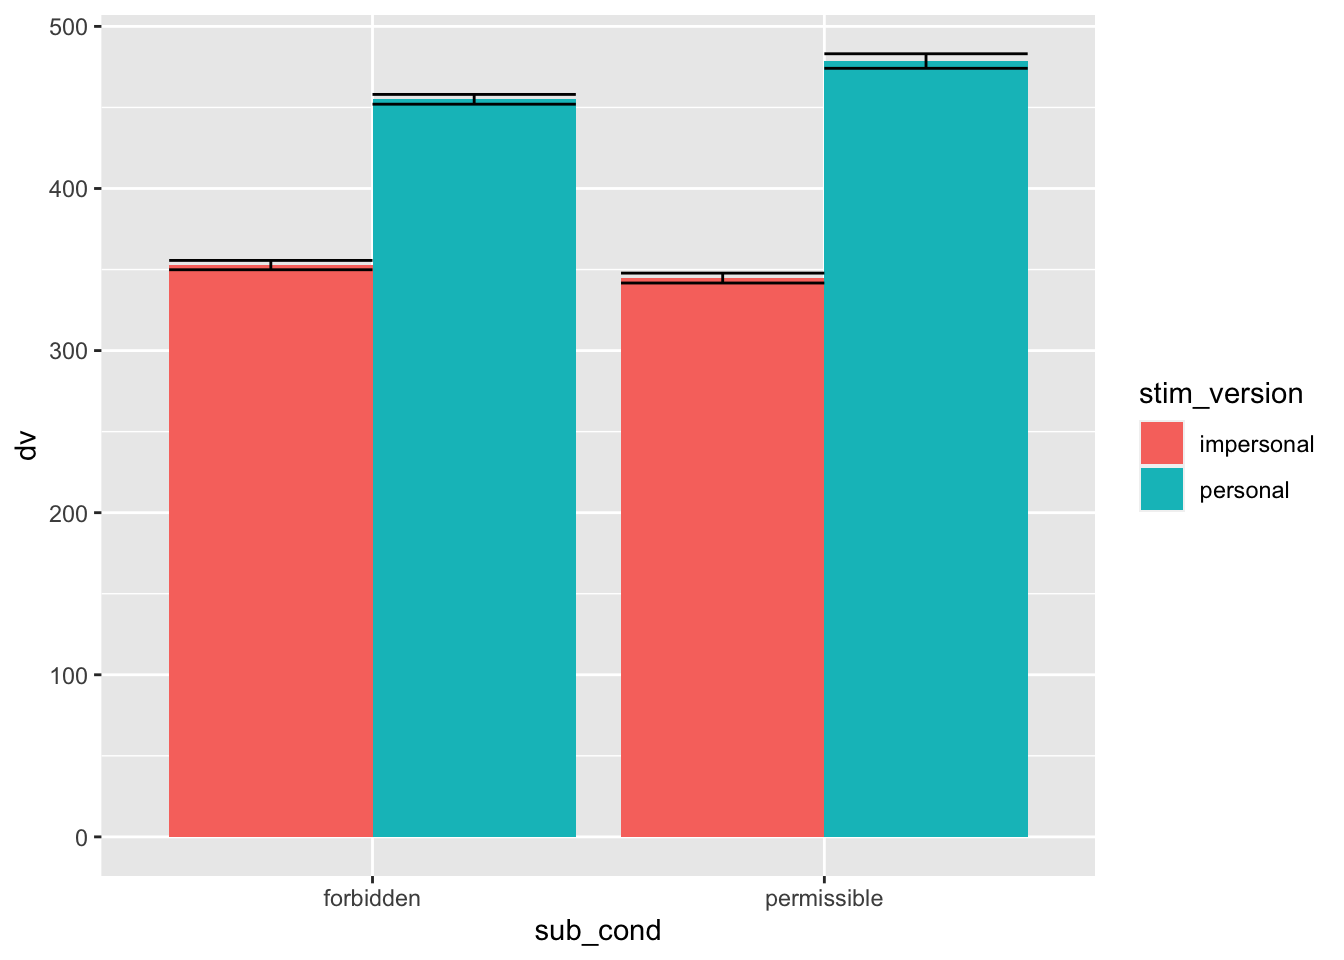
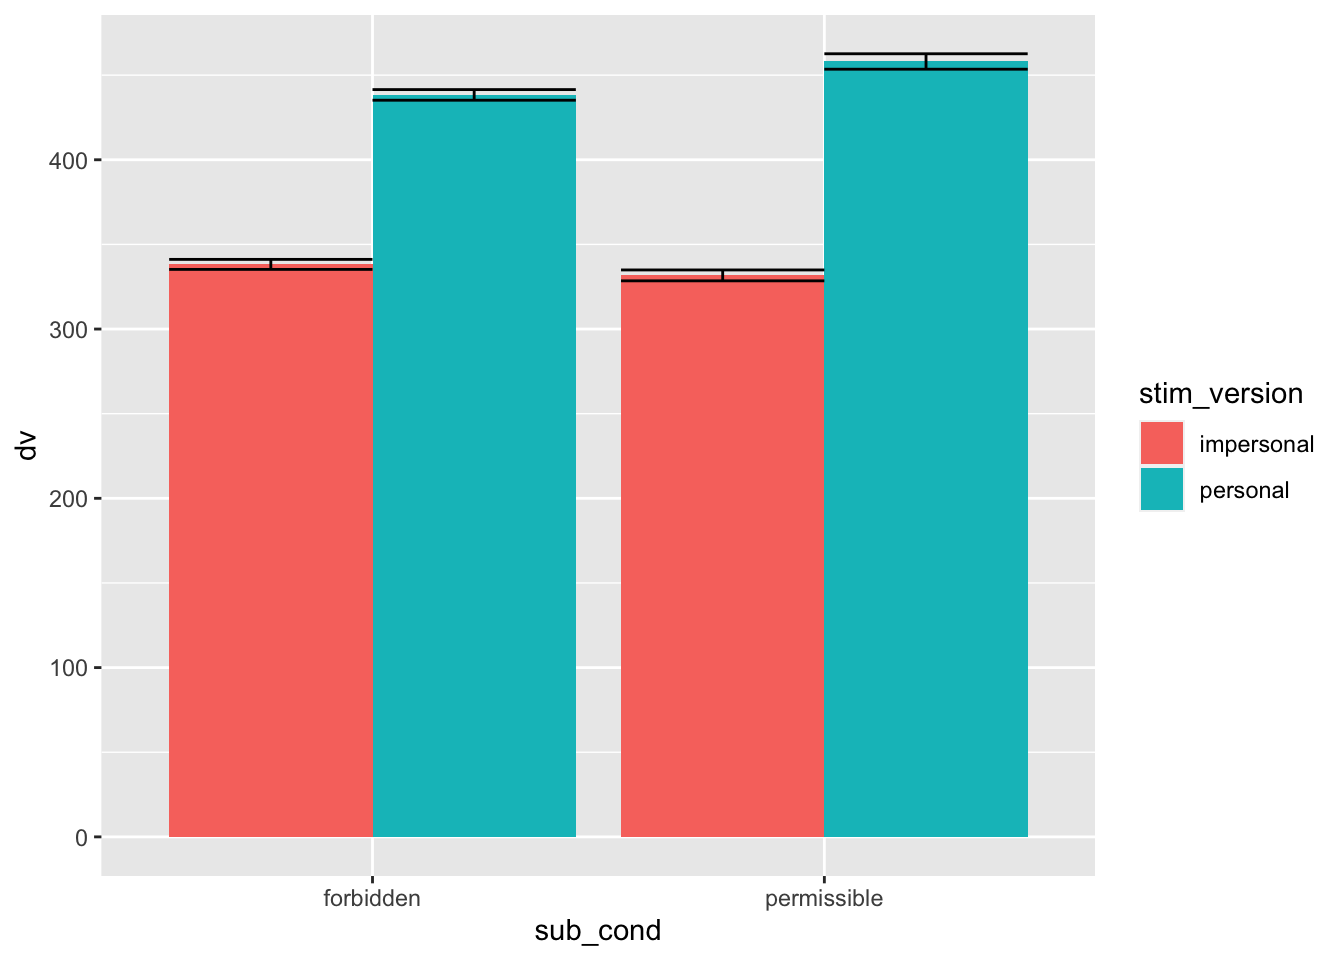
Update

diff --git a/Mixed-effects-models.html b/Mixed-effects-models.html
@@ -522,16 +522,16 @@ sim_lmer &lt;- function( sub_n = 200,
 <pre style="max-height: 500px;"><code>## # A tibble: 20,000 × 17
 ##    sub_id stim_id stim_version sub_i sub_version_slope sub_cond    stim_i
 ##     &lt;int&gt;   &lt;int&gt; &lt;chr&gt;        &lt;dbl&gt;             &lt;dbl&gt; &lt;chr&gt;        &lt;dbl&gt;
-##  1      1       1 impersonal    16.5             -24.4 permissible  -6.66
-##  2      1       1 personal      16.5             -24.4 permissible  -6.66
-##  3      1       2 impersonal    16.5             -24.4 permissible -75.8 
-##  4      1       2 personal      16.5             -24.4 permissible -75.8 
-##  5      1       3 impersonal    16.5             -24.4 permissible -25.9 
-##  6      1       3 personal      16.5             -24.4 permissible -25.9 
-##  7      1       4 impersonal    16.5             -24.4 permissible  75.6 
-##  8      1       4 personal      16.5             -24.4 permissible  75.6 
-##  9      1       5 impersonal    16.5             -24.4 permissible   9.91
-## 10      1       5 personal      16.5             -24.4 permissible   9.91
+##  1      1       1 impersonal   -151.              28.6 permissible  -87.9
+##  2      1       1 personal     -151.              28.6 permissible  -87.9
+##  3      1       2 impersonal   -151.              28.6 permissible  -45.4
+##  4      1       2 personal     -151.              28.6 permissible  -45.4
+##  5      1       3 impersonal   -151.              28.6 permissible   37.8
+##  6      1       3 personal     -151.              28.6 permissible   37.8
+##  7      1       4 impersonal   -151.              28.6 permissible  -31.5
+##  8      1       4 personal     -151.              28.6 permissible  -31.5
+##  9      1       5 impersonal   -151.              28.6 permissible  -48.0
+## 10      1       5 personal     -151.              28.6 permissible  -48.0
 ## # ℹ 19,990 more rows
 ## # ℹ 10 more variables: stim_version_slope &lt;dbl&gt;, stim_cond_slope &lt;dbl&gt;,
 ## #   stim_cond_version_slope &lt;dbl&gt;, sub_cond.e &lt;dbl&gt;, stim_version.e &lt;dbl&gt;,
@@ -592,7 +592,7 @@ one-way repeated measures ANOVA.</p>
 ## 
 ## Response: dv
 ##         Effect     df    MSE           F  ges p.value
-## 1 stim_version 1, 199 218.89 4854.19 *** .221   &lt;.001
+## 1 stim_version 1, 199 198.36 4865.88 *** .190   &lt;.001
 ## ---
 ## Signif. codes:  0 &#39;***&#39; 0.001 &#39;**&#39; 0.01 &#39;*&#39; 0.05 &#39;+&#39; 0.1 &#39; &#39; 1</code></pre>
 <p>As suggested by the plot, we can see a significant main effect of
@@ -610,7 +610,37 @@ mod1 &lt;- lmer(dv ~ stim_version +
                 (1+stim_version|sub_id),
               data = dat)
 
-summary(mod1)</code></pre>
+mod1.sum &lt;- summary(mod1)
+
+mod1.sum</code></pre>
+<pre style="max-height: 500px;"><code>## Linear mixed model fit by REML. t-tests use Satterthwaite&#39;s method [
+## lmerModLmerTest]
+## Formula: dv ~ stim_version + (1 + stim_version | sub_id)
+##    Data: dat
+## 
+## REML criterion at convergence: 217299.5
+## 
+## Scaled residuals: 
+##        Min         1Q     Median         3Q        Max 
+## -3.0877320 -0.6765580 -0.0485672  0.6117997  3.8171290 
+## 
+## Random effects:
+##  Groups   Name          Variance   Std.Dev.  Corr   
+##  sub_id   (Intercept)   10241.4890 101.20024        
+##           stim_version2   282.5241  16.80845 0.28362
+##  Residual                2855.1893  53.43397        
+## Number of obs: 20000, groups:  sub_id, 200
+## 
+## Fixed effects:
+##                 Estimate Std. Error         df  t value   Pr(&gt;|t|)    
+## (Intercept)   384.064987   7.165906 199.000331 53.59615 &lt; 2.22e-16 ***
+## stim_version2  98.245573   1.408424 198.998667 69.75568 &lt; 2.22e-16 ***
+## ---
+## Signif. codes:  0 &#39;***&#39; 0.001 &#39;**&#39; 0.01 &#39;*&#39; 0.05 &#39;.&#39; 0.1 &#39; &#39; 1
+## 
+## Correlation of Fixed Effects:
+##             (Intr)
+## stim_versn2 0.239</code></pre>
 <p>The model also shows a significant main effect of dilemma/stimuli
 type. Indeed, we can tell that the models are equivalent by comparing
 the F and t values. Since we know that F = t<sup>2</sup> we can see that
@@ -626,9 +656,9 @@ the LMM version of the model is that it is trivially easy to return the
 95% confidence intervals on this effect size (mean difference).</p>
 <pre class="r"><code>confint(mod1, parm = &quot;beta_&quot;)</code></pre>
 <pre><code>## Computing profile confidence intervals ...</code></pre>
-<pre style="max-height: 500px;"><code>##                     2.5 %      97.5 %
-## (Intercept)   386.8842566 413.6912365
-## stim_version2 100.1733214 105.9862148</code></pre>
+<pre style="max-height: 500px;"><code>##                      2.5 %      97.5 %
+## (Intercept)   369.98767865 398.1422950
+## stim_version2  95.47875467 101.0123779</code></pre>
 <p>This suggests that under repeated sampling (running experiments in
 the long run) 95% of these confidence intervals would contain the true
 parameter value. Unfortunately, we don’t know if these CIs are one of
@@ -656,9 +686,9 @@ vs. forbidden) between-subjects.</p>
 ## 
 ## Response: dv
 ##                  Effect     df      MSE           F   ges p.value
-## 1              sub_cond 1, 198 18688.67        0.28  .001    .599
-## 2          stim_version 1, 198   219.67 4837.00 ***  .221   &lt;.001
-## 3 sub_cond:stim_version 1, 198   219.67        0.30 &lt;.001    .587
+## 1              sub_cond 1, 198 20608.40        0.34  .002    .560
+## 2          stim_version 1, 198   197.58 4885.14 ***  .190   &lt;.001
+## 3 sub_cond:stim_version 1, 198   197.58        1.79 &lt;.001    .183
 ## ---
 ## Signif. codes:  0 &#39;***&#39; 0.001 &#39;**&#39; 0.01 &#39;*&#39; 0.05 &#39;+&#39; 0.1 &#39; &#39; 1</code></pre>
 <p>Only the main effect of dilemma type is significant. The
@@ -681,6 +711,39 @@ mod2 &lt;- lmer(dv ~ sub_cond + stim_version + sub_cond*stim_version +
 mod2.sum &lt;- summary(mod2)
 
 mod2.sum</code></pre>
+<pre style="max-height: 500px;"><code>## Linear mixed model fit by REML. t-tests use Satterthwaite&#39;s method [
+## lmerModLmerTest]
+## Formula: dv ~ sub_cond + stim_version + sub_cond * stim_version + (1 +  
+##     stim_version | sub_id)
+##    Data: dat
+## 
+## REML criterion at convergence: 217286.6
+## 
+## Scaled residuals: 
+##        Min         1Q     Median         3Q        Max 
+## -3.0831872 -0.6762775 -0.0483569  0.6109423  3.8126269 
+## 
+## Random effects:
+##  Groups   Name          Variance   Std.Dev.  Corr   
+##  sub_id   (Intercept)   10275.2205 101.36676        
+##           stim_version2   280.9479  16.76150 0.28067
+##  Residual                2855.1911  53.43399        
+## Number of obs: 20000, groups:  sub_id, 200
+## 
+## Fixed effects:
+##                           Estimate Std. Error         df  t value Pr(&gt;|t|)    
+## (Intercept)             384.064987   7.177664 198.012341 53.50835  &lt; 2e-16 ***
+## sub_cond2                -8.377017  14.355328 198.012341 -0.58355  0.56019    
+## stim_version2            98.245573   1.405624 198.007220 69.89465  &lt; 2e-16 ***
+## sub_cond2:stim_version2  -3.758816   2.811247 198.007220 -1.33706  0.18274    
+## ---
+## Signif. codes:  0 &#39;***&#39; 0.001 &#39;**&#39; 0.01 &#39;*&#39; 0.05 &#39;.&#39; 0.1 &#39; &#39; 1
+## 
+## Correlation of Fixed Effects:
+##             (Intr) sb_cn2 stm_v2
+## sub_cond2   0.000               
+## stim_versn2 0.236  0.000        
+## sb_cnd2:s_2 0.000  0.236  0.000</code></pre>
 <p>As you can the results are equivalent. If you wanted identical
 results to lots of decimal places this notation would probably be
 better.</p>
@@ -689,10 +752,50 @@ better.</p>
 mod3 &lt;- lmer(dv ~ sub_cond + stim_version + sub_cond*stim_version +
                 (1|sub_id) + (0+stim_version|sub_id), 
               data = dat, control = lmerControl(optimizer = &quot;bobyqa&quot;))</code></pre>
-<pre><code>## Warning: Model failed to converge with 1 negative eigenvalue: -3.1e-05</code></pre>
+<pre><code>## Warning in checkConv(attr(opt, &quot;derivs&quot;), opt$par, ctrl = control$checkConv, : Model is nearly unidentifiable: large eigenvalue ratio
+##  - Rescale variables?</code></pre>
+<pre><code>## Warning: Model failed to converge with 1 negative eigenvalue: -1.3e-03</code></pre>
 <pre class="r"><code>mod3.sum &lt;- summary(mod3)
 
 mod3.sum</code></pre>
+<pre style="max-height: 500px;"><code>## Linear mixed model fit by REML. t-tests use Satterthwaite&#39;s method [
+## lmerModLmerTest]
+## Formula: dv ~ sub_cond + stim_version + sub_cond * stim_version + (1 |  
+##     sub_id) + (0 + stim_version | sub_id)
+##    Data: dat
+## Control: lmerControl(optimizer = &quot;bobyqa&quot;)
+## 
+## REML criterion at convergence: 217286.6
+## 
+## Scaled residuals: 
+##        Min         1Q     Median         3Q        Max 
+## -3.0831860 -0.6762763 -0.0483568  0.6109425  3.8126256 
+## 
+## Random effects:
+##  Groups   Name                   Variance  Std.Dev. Corr   
+##  sub_id   (Intercept)            9073.7391 95.25618        
+##  sub_id.1 stim_versionimpersonal  795.2502 28.20018        
+##           stim_versionpersonal   1749.1047 41.82230 0.95956
+##  Residual                        2855.1893 53.43397        
+## Number of obs: 20000, groups:  sub_id, 200
+## 
+## Fixed effects:
+##                           Estimate Std. Error         df  t value Pr(&gt;|t|)    
+## (Intercept)             384.064987   7.177823 197.998860 53.50717  &lt; 2e-16 ***
+## sub_cond2                -8.377017  14.355646 197.998860 -0.58353  0.56020    
+## stim_version2            98.245573   1.405641 197.999903 69.89379  &lt; 2e-16 ***
+## sub_cond2:stim_version2  -3.758816   2.811282 197.999903 -1.33705  0.18274    
+## ---
+## Signif. codes:  0 &#39;***&#39; 0.001 &#39;**&#39; 0.01 &#39;*&#39; 0.05 &#39;.&#39; 0.1 &#39; &#39; 1
+## 
+## Correlation of Fixed Effects:
+##             (Intr) sb_cn2 stm_v2
+## sub_cond2   0.000               
+## stim_versn2 0.236  0.000        
+## sb_cnd2:s_2 0.000  0.236  0.000 
+## optimizer (bobyqa) convergence code: 0 (OK)
+## Model is nearly unidentifiable: large eigenvalue ratio
+##  - Rescale variables?</code></pre>
 </div>
 <div id="averaging-over-scenarioitem-can-inflate-type-i-error"
 class="section level2" number="3.5">
@@ -737,9 +840,9 @@ weird items in the personal/permissible condition.</p>
 ## 
 ## Response: dv
 ##                  Effect     df      MSE           F  ges p.value
-## 1              sub_cond 1, 198 18688.67        0.33 .002    .569
-## 2          stim_version 1, 198   219.67 6347.18 *** .271   &lt;.001
-## 3 sub_cond:stim_version 1, 198   219.67  113.73 *** .007   &lt;.001
+## 1              sub_cond 1, 198 20608.40        0.21 .001    .645
+## 2          stim_version 1, 198   197.58 6490.73 *** .237   &lt;.001
+## 3 sub_cond:stim_version 1, 198   197.58   87.13 *** .004   &lt;.001
 ## ---
 ## Signif. codes:  0 &#39;***&#39; 0.001 &#39;**&#39; 0.01 &#39;*&#39; 0.05 &#39;+&#39; 0.1 &#39; &#39; 1</code></pre>
 <p>Now we can see that the interaction between judgment (sub_cond) and
@@ -764,6 +867,39 @@ mod4 &lt;- lmer(dv ~ sub_cond + stim_version + sub_cond*stim_version +
 mod4.sum &lt;- summary(mod4)
 
 mod4.sum</code></pre>
+<pre style="max-height: 500px;"><code>## Linear mixed model fit by REML. t-tests use Satterthwaite&#39;s method [
+## lmerModLmerTest]
+## Formula: dv ~ sub_cond + stim_version + sub_cond * stim_version + (1 +  
+##     stim_version | sub_id)
+##    Data: dat1
+## 
+## REML criterion at convergence: 231891.4
+## 
+## Scaled residuals: 
+##        Min         1Q     Median         3Q        Max 
+## -2.5427629 -0.5521201 -0.0983631  0.3858573  7.2556792 
+## 
+## Random effects:
+##  Groups   Name          Variance   Std.Dev.  Corr   
+##  sub_id   (Intercept)   10244.1917 101.21359        
+##           stim_version2   154.5564  12.43207 0.37903
+##  Residual                6015.1278  77.55725        
+## Number of obs: 20000, groups:  sub_id, 200
+## 
+## Fixed effects:
+##                           Estimate Std. Error         df  t value Pr(&gt;|t|)    
+## (Intercept)             391.564987   7.177863 197.995908 54.55175  &lt; 2e-16 ***
+## sub_cond2                 6.622983  14.355726 197.995908  0.46135  0.64506    
+## stim_version2           113.245573   1.405634 198.000506 80.56546  &lt; 2e-16 ***
+## sub_cond2:stim_version2  26.241184   2.811268 198.000506  9.33429  &lt; 2e-16 ***
+## ---
+## Signif. codes:  0 &#39;***&#39; 0.001 &#39;**&#39; 0.01 &#39;*&#39; 0.05 &#39;.&#39; 0.1 &#39; &#39; 1
+## 
+## Correlation of Fixed Effects:
+##             (Intr) sb_cn2 stm_v2
+## sub_cond2   0.000               
+## stim_versn2 0.236  0.000        
+## sb_cnd2:s_2 0.000  0.236  0.000</code></pre>
 </div>
 <div
 id="lmm-model-with-both-by-subject-and-by-scenario-random-factors-with-3-weird-items"
@@ -783,6 +919,44 @@ mod5 &lt;- lmer(dv ~ sub_cond + stim_version + sub_cond*stim_version +
 mod5.sum &lt;- summary(mod5)
 
 mod5.sum</code></pre>
+<pre style="max-height: 500px;"><code>## Linear mixed model fit by REML. t-tests use Satterthwaite&#39;s method [
+## lmerModLmerTest]
+## Formula: dv ~ sub_cond + stim_version + sub_cond * stim_version + (1 +  
+##     stim_version | sub_id) + (1 + stim_version * sub_cond | stim_id)
+##    Data: dat1
+## Control: lmerControl(optimizer = &quot;bobyqa&quot;)
+## 
+## REML criterion at convergence: 188673.3
+## 
+## Scaled residuals: 
+##        Min         1Q     Median         3Q        Max 
+## -3.6049338 -0.6658690  0.0045052  0.6752169  4.0350061 
+## 
+## Random effects:
+##  Groups   Name                    Variance   Std.Dev.  Corr                   
+##  sub_id   (Intercept)             10297.9217 101.47868                        
+##           stim_version2             369.9744  19.23472 0.24434                
+##  stim_id  (Intercept)              2709.7026  52.05480                        
+##           stim_version2            3555.5507  59.62844 0.56115                
+##           sub_cond2                3578.3939  59.81968 0.59659 0.92733        
+##           stim_version2:sub_cond2 14273.4928 119.47172 0.41912 0.97189 0.90744
+##  Residual                           629.7829  25.09548                        
+## Number of obs: 20000, groups:  sub_id, 200; stim_id, 50
+## 
+## Fixed effects:
+##                           Estimate Std. Error         df  t value Pr(&gt;|t|)    
+## (Intercept)             391.564987  10.281787 152.230496 38.08336  &lt; 2e-16 ***
+## sub_cond2                 6.622983  16.662901 241.364248  0.39747  0.69137    
+## stim_version2           113.245573   8.549084  51.568978 13.24651  &lt; 2e-16 ***
+## sub_cond2:stim_version2  26.241184  17.128140  51.559558  1.53205  0.13162    
+## ---
+## Signif. codes:  0 &#39;***&#39; 0.001 &#39;**&#39; 0.01 &#39;*&#39; 0.05 &#39;.&#39; 0.1 &#39; &#39; 1
+## 
+## Correlation of Fixed Effects:
+##             (Intr) sb_cn2 stm_v2
+## sub_cond2   0.217               
+## stim_versn2 0.423  0.464        
+## sb_cnd2:s_2 0.296  0.488  0.946</code></pre>
 <p>Here we can see that the interaction is not significant. When we
 model dilemma as a random factor we are able to model the variance
 associated with the weirdly slow 3 dilemmas and this means that the
